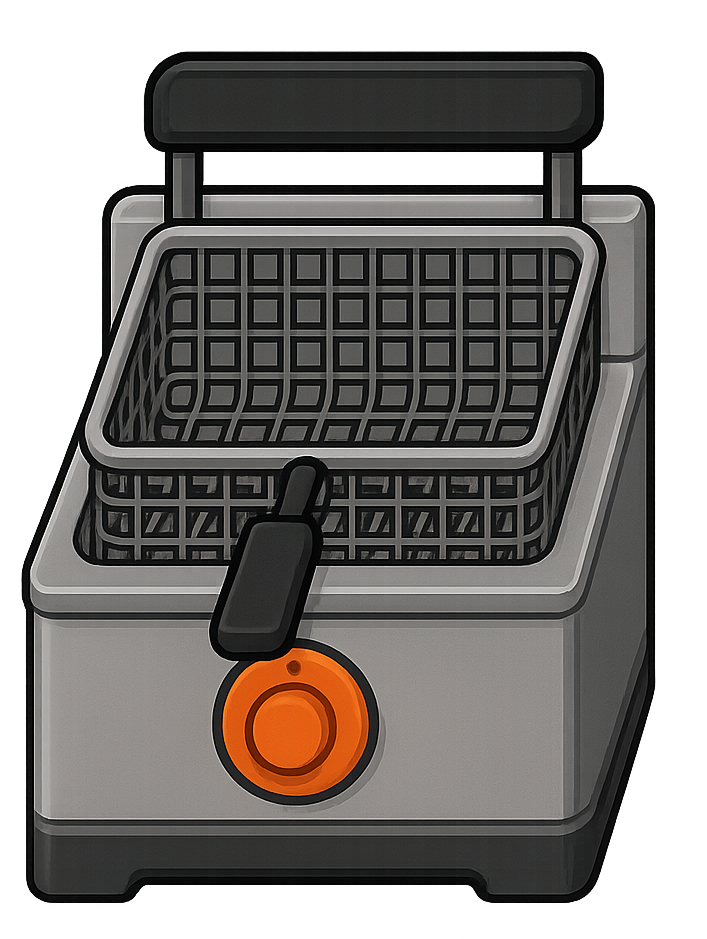
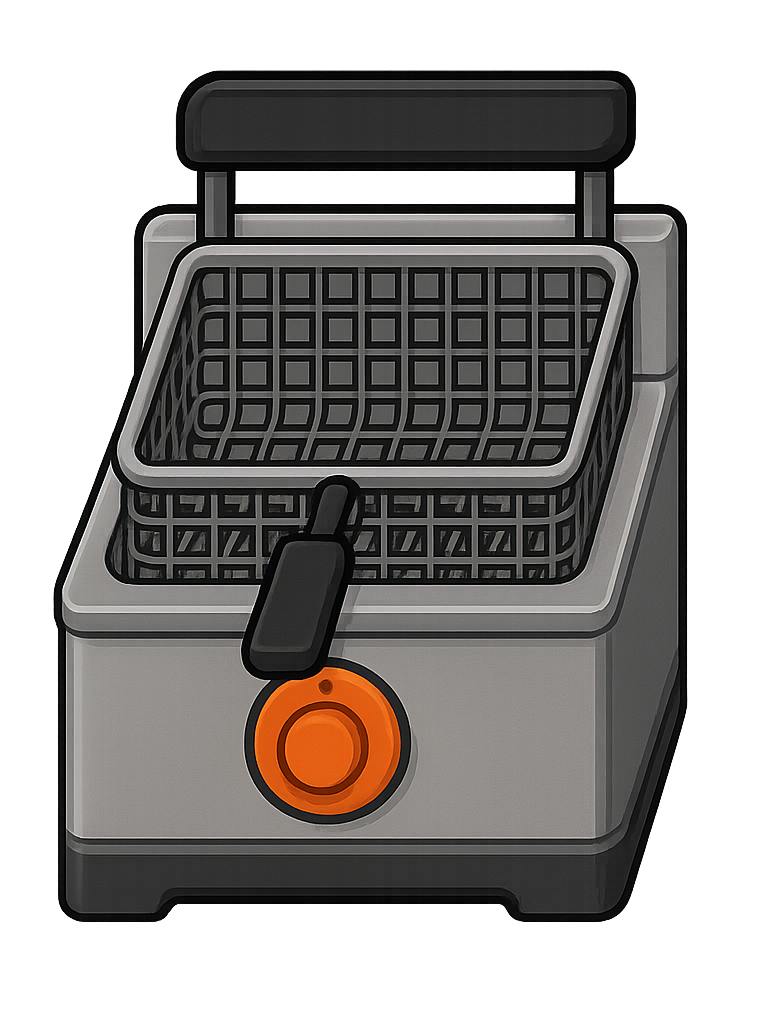
Estacion Frito
Principio de la implementacion de la estacion de frito. Cambio de estado de freidora de idle a con aceite y espacio para indiciar estado de croqueta una vez se ponga en la freidora.

diff --git a/src/views/stations/FrituraStation.jsx b/src/views/stations/FrituraStation.jsx
@@ -2,25 +2,29 @@ import "../../styles/FrituraStyle.css";
 import { useState, useEffect } from "react";
 
 const fases = ["idle", "aceite", "usando", "listo"];
-const cajas = [1, 2, 3];
+const cajas = [1, 2];
 const maxCroquetas = 5;
 
 
 
 function FrituraStation() {
   const [croquetas, setCroquetas] = useState([]);
+  const [fasesFreidoras, setFasesFreidoras] = useState(cajas.map(() => 0));
+  const [croquetaDentro, setCroquetaDentro] = useState([null, null]);
 
-  useEffect(() => {generarCroquetas();}, []);
-  
-  const renderCroquetas = () => 
+  useEffect(() => { generarCroquetas(); }, []);
+
+  const renderCroquetas = () =>
     croquetas.map((c) => (
-    <img
-      src="/images/croquetaBechamel.png"
-      alt="croqueta"
-      className="croqueta-imagen"
-
-    />
-  ));
+      <img
+        key={c.id}
+        src="/images/croquetaBechamel.png"
+        alt="croqueta"
+        className="croqueta-imagen"
+        draggable
+        onDragStart={(e) => e.dataTransfer.setData("id", c.id)}
+      />
+    ));
   const generarCroquetas = () => {
     const nuevas = [];
     for (let i = 0; i < maxCroquetas; i++) {
@@ -33,39 +37,91 @@ function FrituraStation() {
     }
     setCroquetas(nuevas);
   }
+
   const renderCajas = () =>
-    cajas.map((fase, index) => (
-      <>
-        <img
-          src="/images/freidoraIdle.png"
-          alt="freidora"
-          className="freidora-imagen"
-          key={fase}
-          onDragOver={(e) => e.preventDefault()}
-          onDrop={(e) => {
-            /*const id = parseInt(e.dataTransfer.getData("id"));
-            const croqueta = croquetas.find((c) => c.id === id);
-            if (croqueta && croqueta.fase === index) {
-              avanzarFase(id);
-            }*/
-          }}
-        /></>
-    ));
-    const renderPlato = () => (
-      <img
-        src="/images/platoServilleta.png"
-        alt="plato"
-        className="plato-imagen"
-        onDragOver={(e) => e.preventDefault()}
-        onDrop={(e) => {
-          /*const id = parseInt(e.dataTransfer.getData("id"));
-          const croqueta = croquetas.find((c) => c.id === id);
-          if (croqueta && croqueta.fase === index) {
-            avanzarFase(id);
-          }*/
-        }}
-      />
-    );
+    cajas.map((_, index) => {
+      const fase = fasesFreidoras[index];
+      const imagen =
+        fase === 0 ? "/images/freidoraIdle.png" : fase === 1 ? "/images/freidoraUsada.png" : "/images/freidoraUsada.png";
+
+      return (
+        <div key={`freidora-${index}`} className="freidora-contenedor">
+          {fase === 1 && <div className="texto-aceiteCalentando">Calentando el aceite...</div>}
+          {fase === 2 && (
+            <div className="contenedor-freidora">
+              <div className="texto-aceiteListo">Aceite listo para usar</div>
+              <img
+                src="/images/estadoCroquetaEspacio.png"
+                alt="contenedor"
+                className="contenedor-freidora-imagen"
+              />
+              {croquetaDentro[index] && (
+                <img
+                  src={croquetaDentro[index].imagen}
+                  alt="croqueta en freidora"
+                  className="croqueta-en-freidora"
+                />
+              )}
+            </div>
+          )}
+          <img
+            src={imagen}
+            alt="freidora"
+            className="freidora-imagen"
+            onClick={() => cambiarAFaseAceite(index)}
+            onDragOver={(e) => e.preventDefault()}
+            onDrop={(e) => {
+              e.preventDefault();
+              const croquetaId = parseInt(e.dataTransfer.getData("id"));
+              const croqueta = croquetas.find((c) => c.id === croquetaId);
+              if (!croqueta || fasesFreidoras[index] !== 2) return;
+
+              setCroquetaDentro((prev) => {
+                const nuevas = [...prev];
+                nuevas[index] = {
+                  id: croquetaId,
+                  estado: "pocohecha",
+                  imagen: "/images/croquetaPocoHecha.png"
+                };
+                return nuevas;
+              });
+            }}
+          />
+        </div>
+      );
+    });
+
+  const cambiarAFaseAceite = (index) => {
+    setFasesFreidoras((prev) => {
+      const nuevas = [...prev];
+      nuevas[index] = 1; // Calentando (cambio de imagen de freidora)
+      return nuevas;
+    });
+
+    setTimeout(() => {
+      setFasesFreidoras((prev) => {
+        const nuevas = [...prev];
+        nuevas[index] = 2; // Aceita ya caliente (permitir que se agreguen croquetas)
+        return nuevas;
+      });
+    }, 5000); // Tiempo, ahora mismo son 5 segundos
+  };
+
+  const renderPlato = () => (
+    <img
+      src="/images/platoServilleta.png"
+      alt="plato"
+      className="plato-imagen"
+      onDragOver={(e) => e.preventDefault()}
+      onDrop={(e) => {
+        /*const id = parseInt(e.dataTransfer.getData("id"));
+        const croqueta = croquetas.find((c) => c.id === id);
+        if (croqueta && croqueta.fase === index) {
+          avanzarFase(id);
+        }*/
+      }}
+    />
+  );
   return (
     <div className="fritura-station">
       <div className="croquetas-wrapper">{renderCroquetas()}</div>

diff --git a/src/styles/FrituraStyle.css b/src/styles/FrituraStyle.css
@@ -14,18 +14,48 @@
 }
 
 .freidora-wrapper {
-  position: relative;
+  text-align: center;
   bottom: 10%;
-  left: 0%;
   display: flex;
-  width: 18%;
+  width: 35%;
   height: 60%;
   justify-content: center;
   align-items: flex-end;
 }
 
+.freidora-contenedor {
+  position: relative;
+  display: flex;
+  flex-direction: column;
+  align-items: center;
+  width: 100%;
+}
+
 .freidora-imagen {
   width: 100%;
+  height: 100%;
+}
+
+.texto-aceiteCalentando {
+  position: absolute;
+  bottom: 0%;
+  left: 55%;
+  width: 100%;
+  color: black;
+  transform: translateX(-50%);
+  font-weight: bold;
+  font-size: 1.2rem;
+}
+
+.texto-aceiteListo {
+  position: absolute;
+  bottom: 0%;
+  left: 55%;
+  width: 100%;
+  color: black;
+  transform: translateX(-50%);
+  font-weight: bold;
+  font-size: 1.2rem;
 }
 
 .croquetas-wrapper {
@@ -46,4 +76,12 @@
   width: 22%;
   bottom: 5%;
   right: 1%;
+}
+
+.contenedor-freidora-imagen {
+  position: absolute;
+  right: 40%;
+  bottom: 60%;
+  width: 70%;
+  height: auto;
 }
